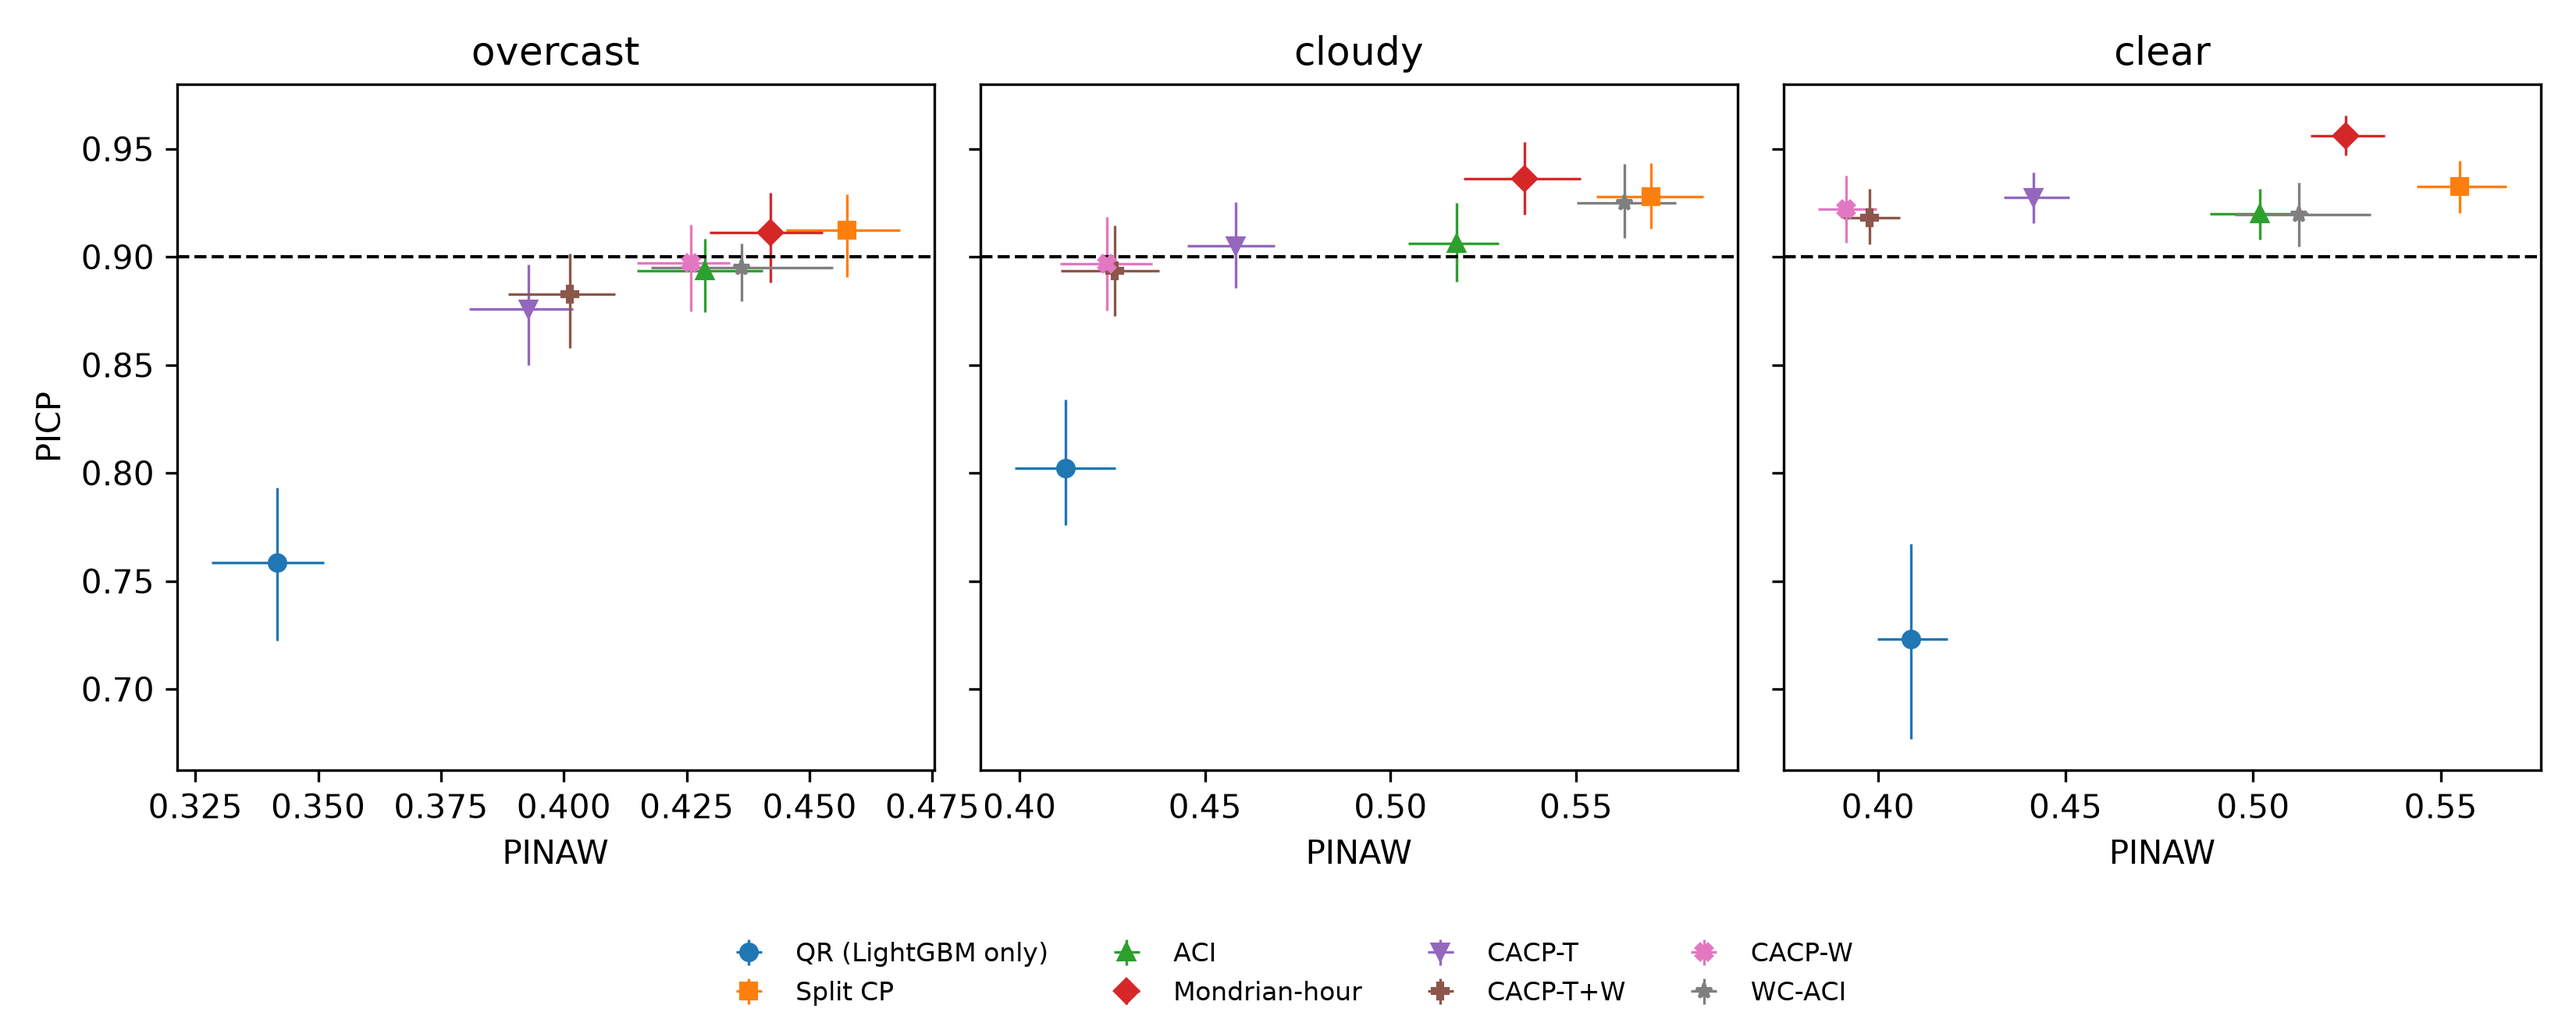
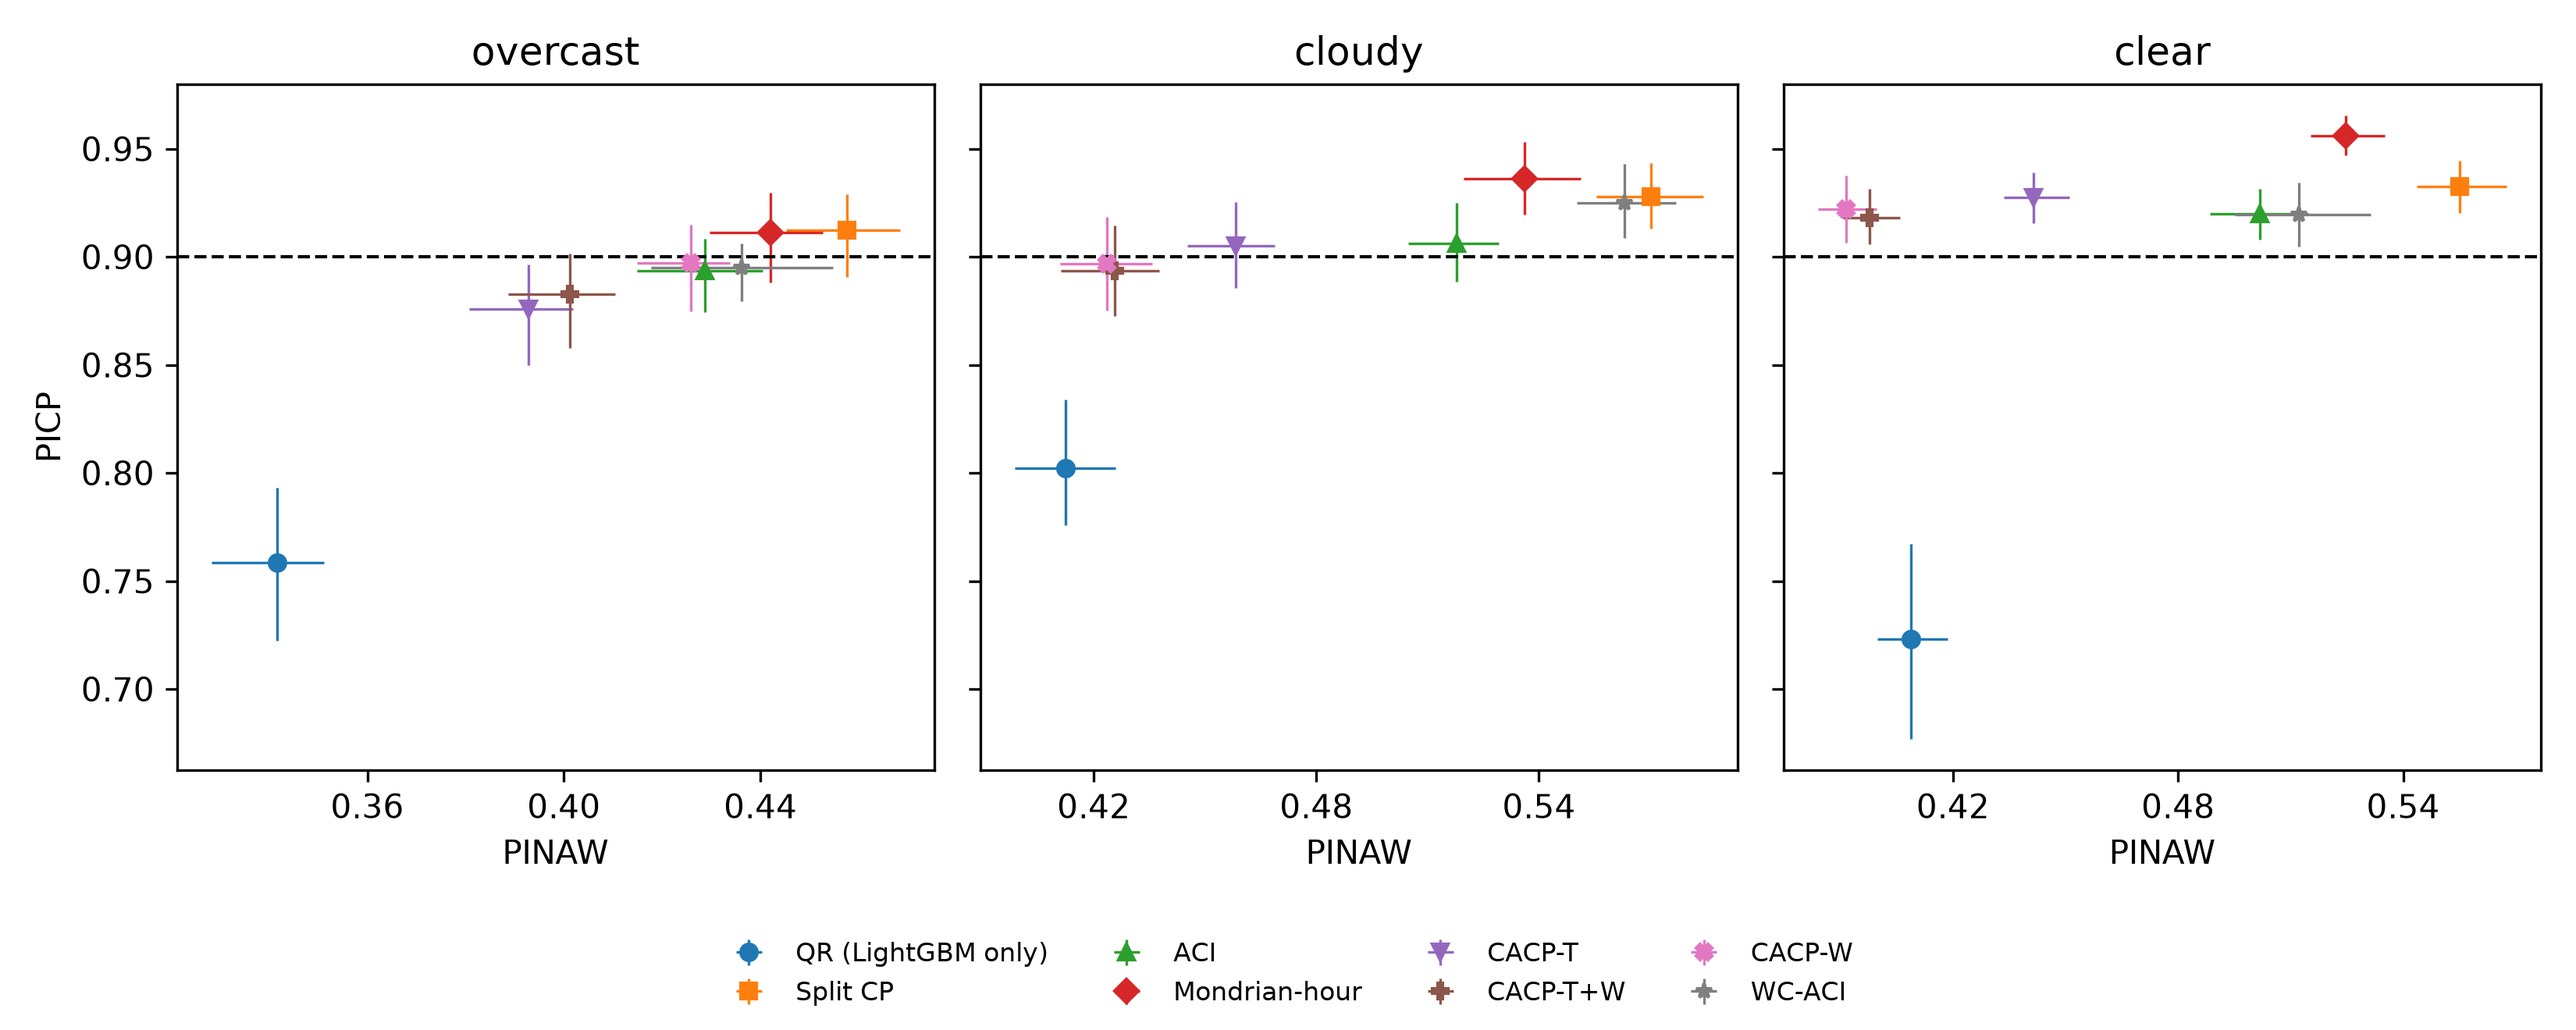
Fix crowded x-axis ticks at panel edges in coverage-width figure

diff --git a/src/figures.py b/src/figures.py
@@ -2,6 +2,7 @@
 from pathlib import Path
 
 import matplotlib.pyplot as plt
+from matplotlib.ticker import MaxNLocator
 import numpy as np
 import pandas as pd
 
@@ -51,6 +52,7 @@ def tradeoff(st, fname):
         ax.axhline(0.9, color="k", ls="--", lw=1)
         ax.set_title(c)
         ax.set_xlabel("PINAW")
+        ax.xaxis.set_major_locator(MaxNLocator(nbins=4))  # keep edge ticks of adjacent panels apart
     axs[0].set_ylabel("PICP")
     h, l = axs[0].get_legend_handles_labels()
     fig.legend(h, l, loc="lower center", ncol=4, fontsize=8, frameon=False)
